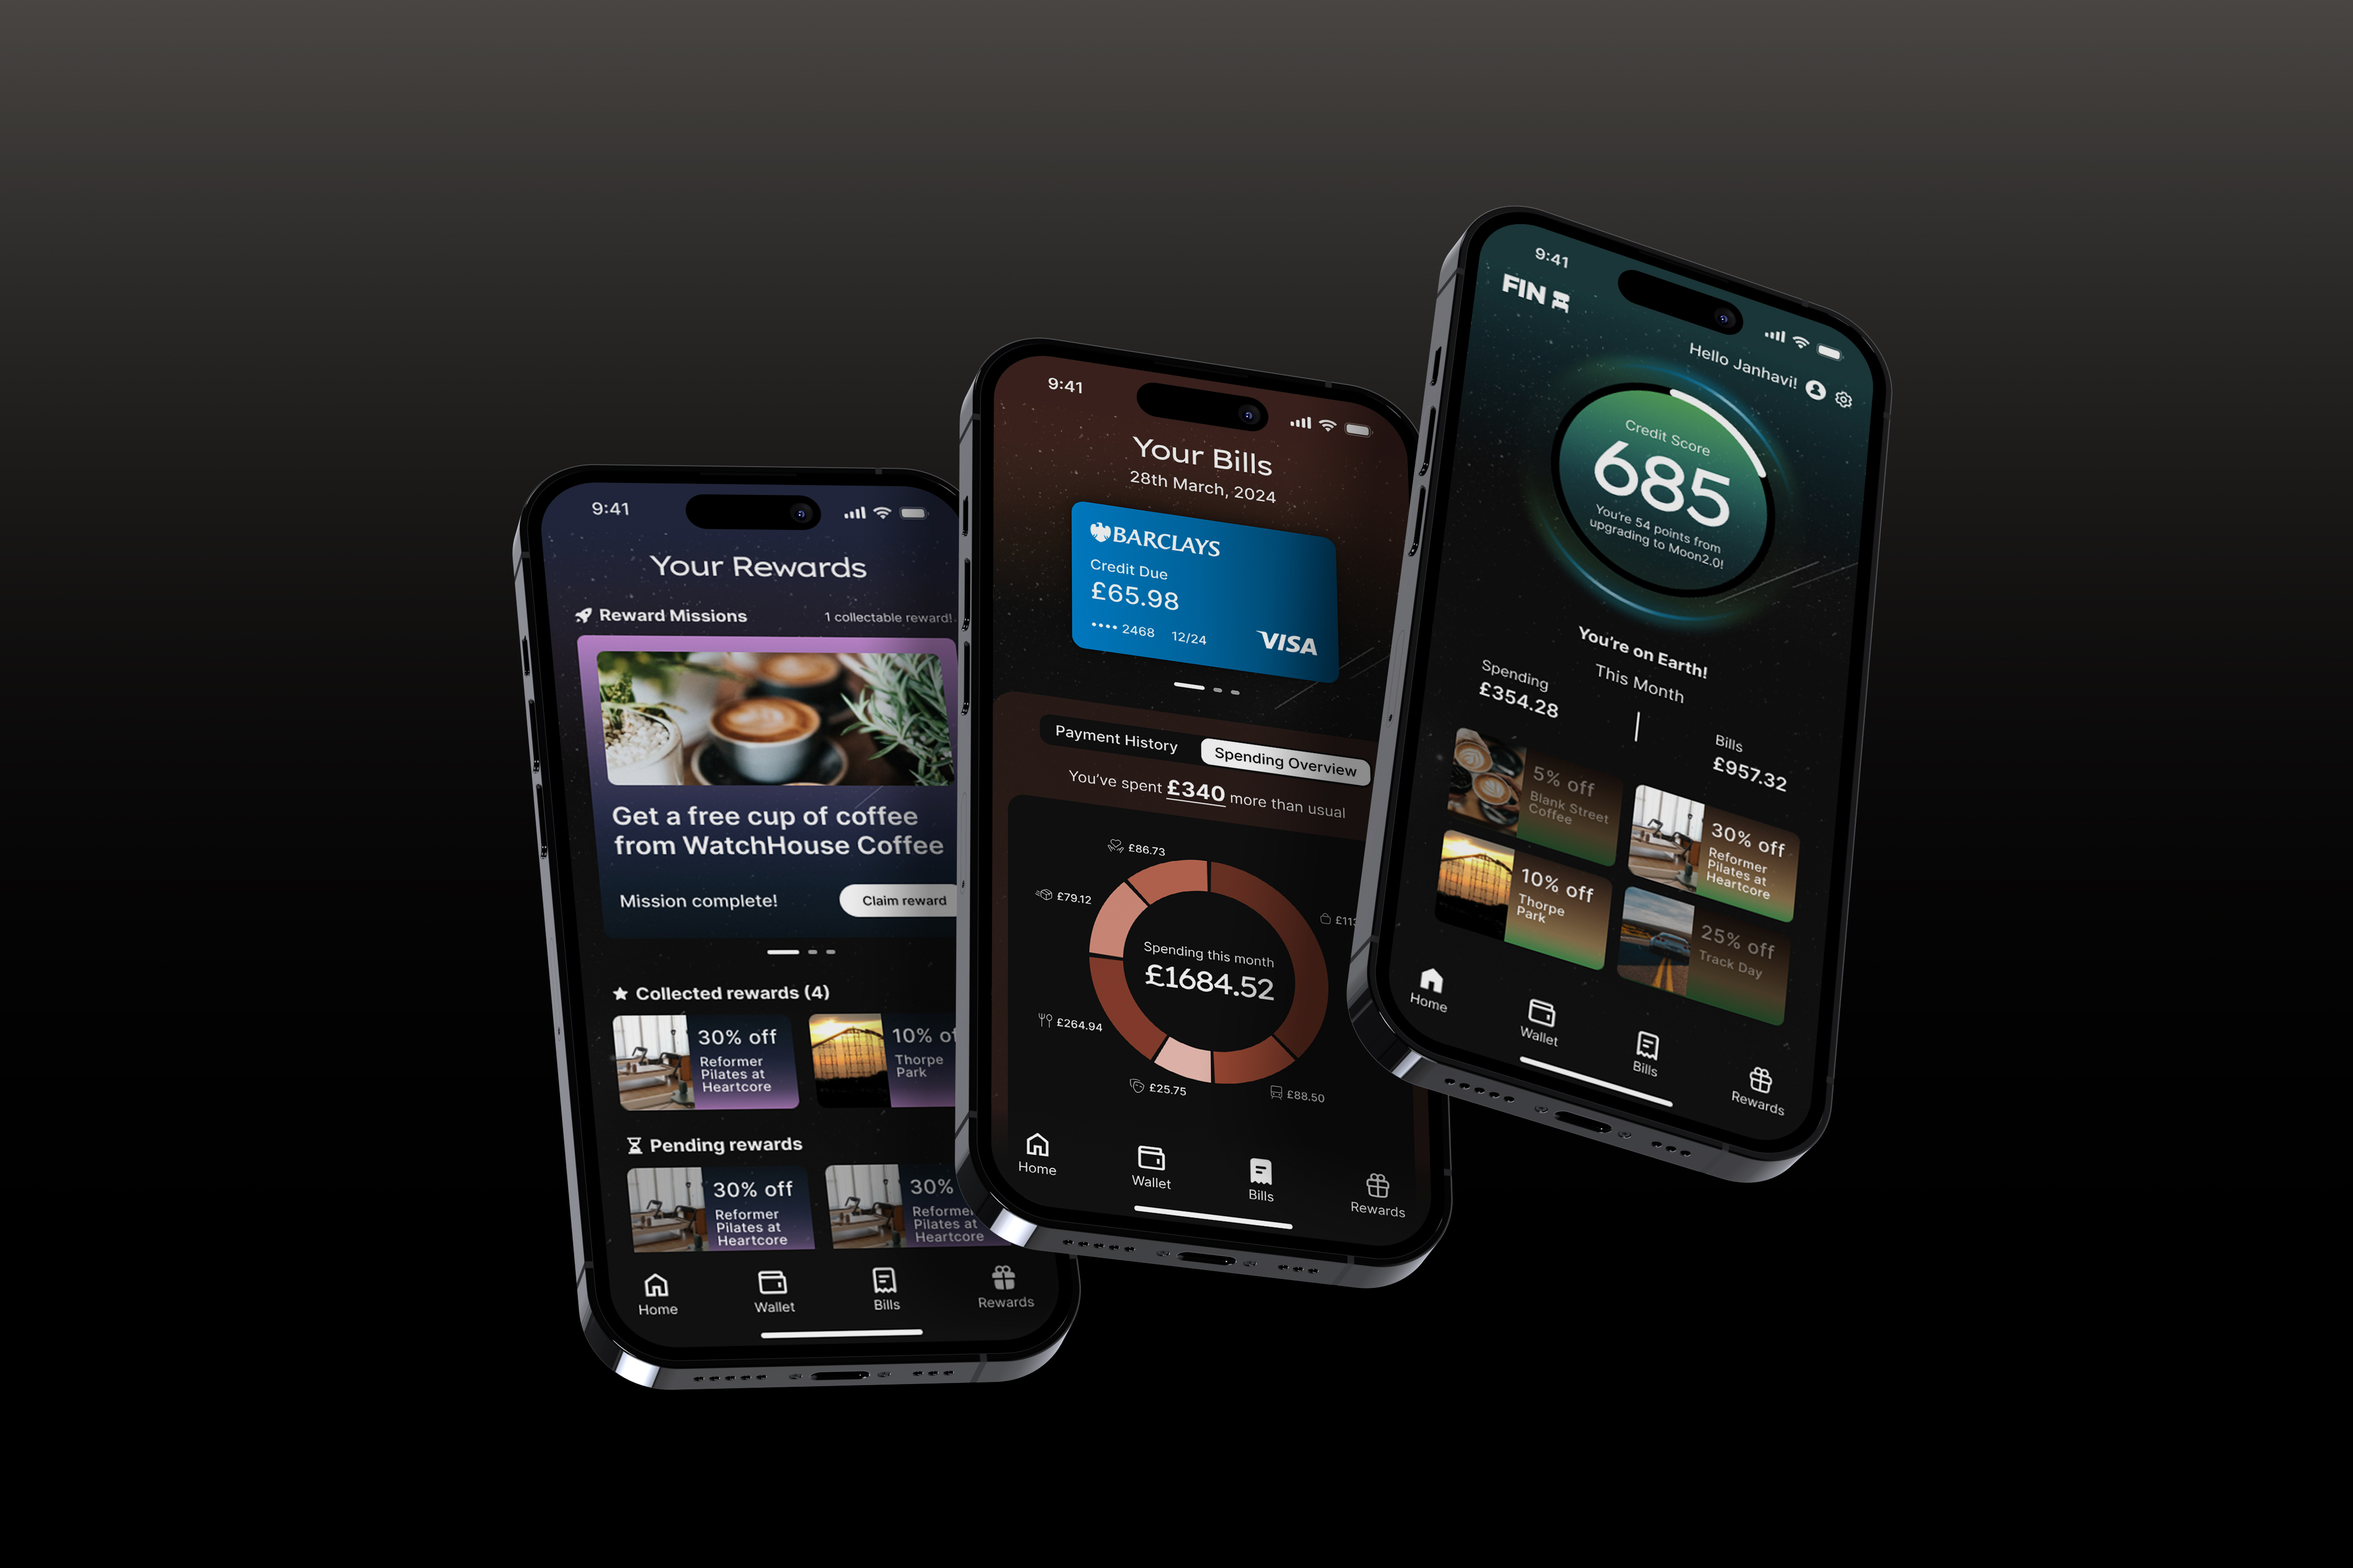
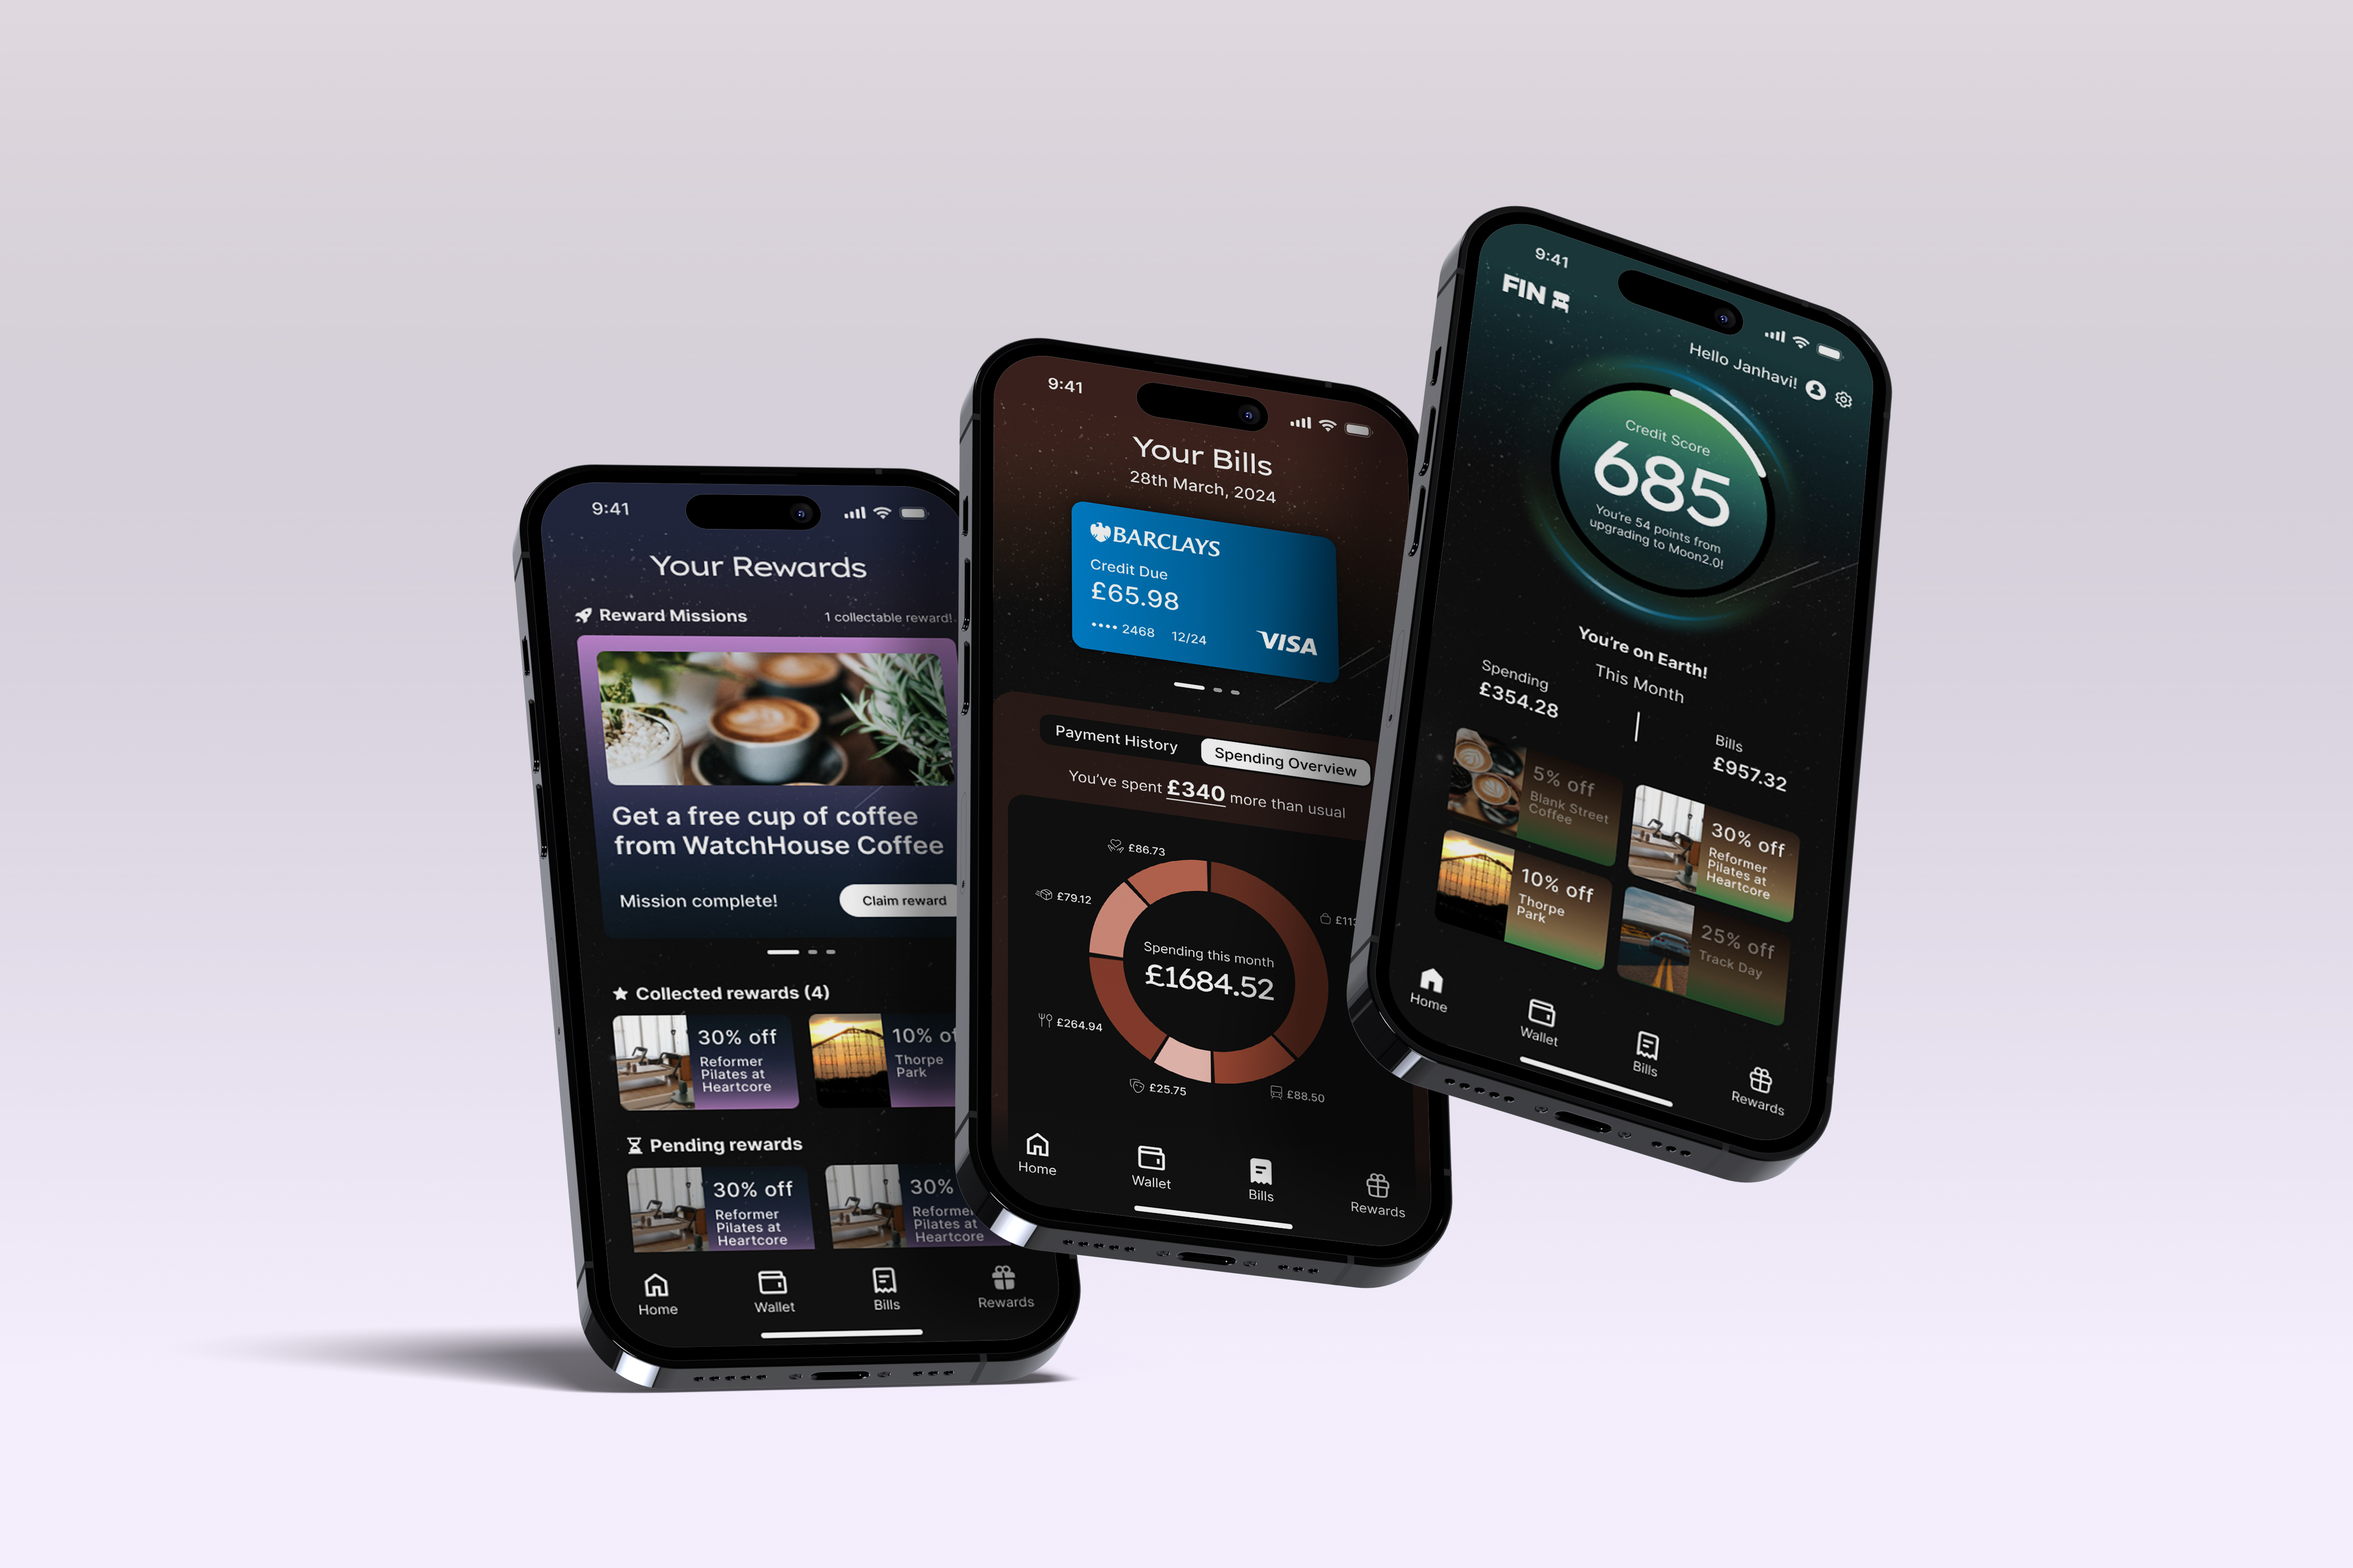
Edit project images and background colours

diff --git a/src/app/page.module.css b/src/app/page.module.css
@@ -31,7 +31,7 @@
 
 .statement {
   text-align: center;
-  padding: 0 12rem;
+  padding: 0 12rem 1rem 12rem;
 }
 
 .statement h2 {
@@ -49,11 +49,11 @@
 }
 
 .projects li {
-  width: 30rem;
+  width: 34rem;
   display: flex;
   background: lightgray;
   border-radius: 1.5em;
-  height: 20em;
+  height: 24rem;
   box-shadow: 0px 4px 4px 0px rgba(0, 0, 0, 0.15);
   transition: box-shadow 0.25s ease-in, transform 0.2s ease-in;
 }
@@ -64,9 +64,8 @@
 }
 
 .projects .projectOne {
-  background-image: url("/finchair/Finchair-3-spray.jpg");
+  background-image: url("/housebrain/housebrain.jpg");
   background-size: cover;
-  color: white;
 }
 
 .projects li:hover {
@@ -76,26 +75,23 @@
 }
 
 .projects .projectTwo {
-  background-image: url("/finchair/Finchair-3-spray.jpg");
+  background-image: url("/umuntu/umuntu-mobile-ipad.jpg");
   background-size: cover;
-  color: white;
 }
 
 .projects .projectThree {
   background-image: url("/finchair/Finchair-3-spray.jpg");
   background-size: cover;
-  color: white;
 }
 
 .projects .projectFour {
-  background-image: url("/finchair/Finchair-3-spray.jpg");
+  background-image: url("/sierra/sierra-beige.jpg");
   background-size: cover;
-  color: white;
 }
 
 .projects p {
-  padding: 0.5em 0;
-  font-size: 0.7em;
+  padding: 0.2rem 0;
+  font-size: 0.8rem;
 }
 
 .profileBanner {

diff --git a/src/app/page.js b/src/app/page.js
@@ -20,7 +20,7 @@ export default function Home() {
       
       <div className={styles.work}>
         <div className={styles.statement}>
-          <h2>My focus is to design products that customers love and that developers can build with ease. I enjoy seeing the businesses I work for grow and evolve.</h2>
+          <h2>"My focus is to design products that customers love and that developers can build with ease. I enjoy seeing the businesses I work for grow and evolve."</h2>
         </div>
         <ul className={styles.projects}>
           <li className={styles.projectOne}>
